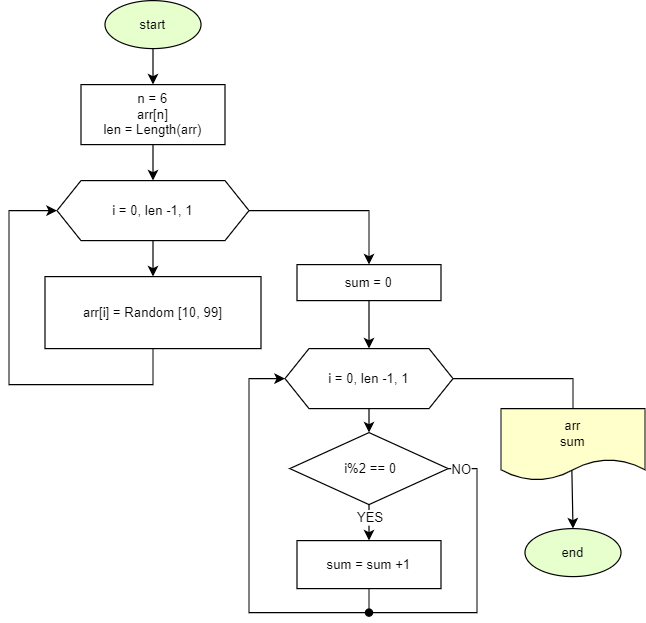
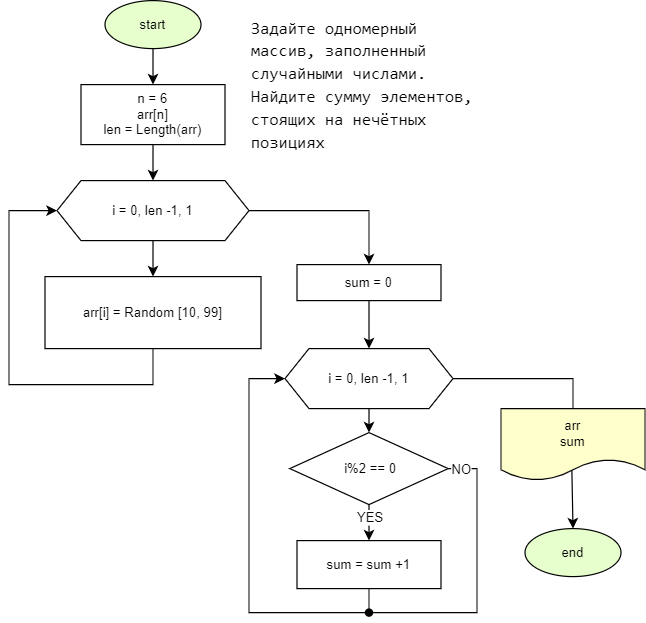
Task 5_3 finished

Changed region(s): [[0.3715, 0.0305, 0.7121, 0.244]]

diff --git a/TASK_5_3/Program.cs b/TASK_5_3/Program.cs
@@ -1,0 +1,31 @@
+// Для ясности примем что нечетные позиции элементов в массиве это нечетные позиции массива считая с 1(0-ой элемент массива). (1,3,5....)
+int n = 6;
+var arr = new double[n];
+
+FillRandomArray(arr, -50, 50, 1);
+Console.Write("Array of " + n + " elements: ");
+Console.WriteLine("[" + string.Join(", ", arr) + "]");
+Console.WriteLine($"Difference: {FindExtemums(arr)[0] - FindExtemums(arr)[1]}");
+
+
+
+
+void FillRandomArray(double[] arr, int lBound, int rBound, int dec)
+{
+    for (int i = 0; i < arr.Length; i++)
+    {
+        arr[i] = new Random().Next(lBound * 10 * dec, rBound * 10 * dec + 1) / 10.0 / dec;
+    }
+}
+
+double[] FindExtemums(double[] arr)
+{
+    double max = arr[0];
+    double min = arr[0];
+    foreach (var val in arr)
+    {
+        if (max < val) max = val;
+        else if (min > val) min = val;
+    }
+    return new double[] {max, min};
+}

diff --git a/TASK_5_2/Program.cs b/TASK_5_2/Program.cs
@@ -1,6 +1,6 @@
 // Для ясности примем что нечетные позиции элементов в массиве это нечетные позиции массива считая с 1(0-ой элемент массива). (1,3,5....)
-int n = 5;
-var arr = new int[6];
+int n = 6;
+var arr = new int[n];
 
 FillRandomArray(arr, 10, 99);
 Console.Write("Array of " + n + " elements: ");

diff --git a/TASK_5_1/Program.cs b/TASK_5_1/Program.cs
@@ -1,5 +1,5 @@
 int n = 5;
-var arr = new int[5];
+var arr = new int[n];
 
 FillRandomArray(arr, 100, 999);
 Console.Write("Array of " + n + " elements: ");

diff --git a/TASK_5_2/Task_data.md b/TASK_5_2/Task_data.md
@@ -1,2 +1,2 @@
-# Задача 5_1
-Задайте массив заполненный случайными положительными трёхзначными числами. Напишите программу, которая покажет количество чётных чисел в массиве.
+# Задача 5_2
+Задайте одномерный массив, заполненный случайными числами. Найдите сумму элементов, стоящих на нечётных позициях.

diff --git a/TASK_5_3/Task_data.md b/TASK_5_3/Task_data.md
@@ -1,0 +1,2 @@
+# Задача 5_3
+Задайте массив вещественных чисел. Найдите разницу между максимальным и минимальным элементов массива.
